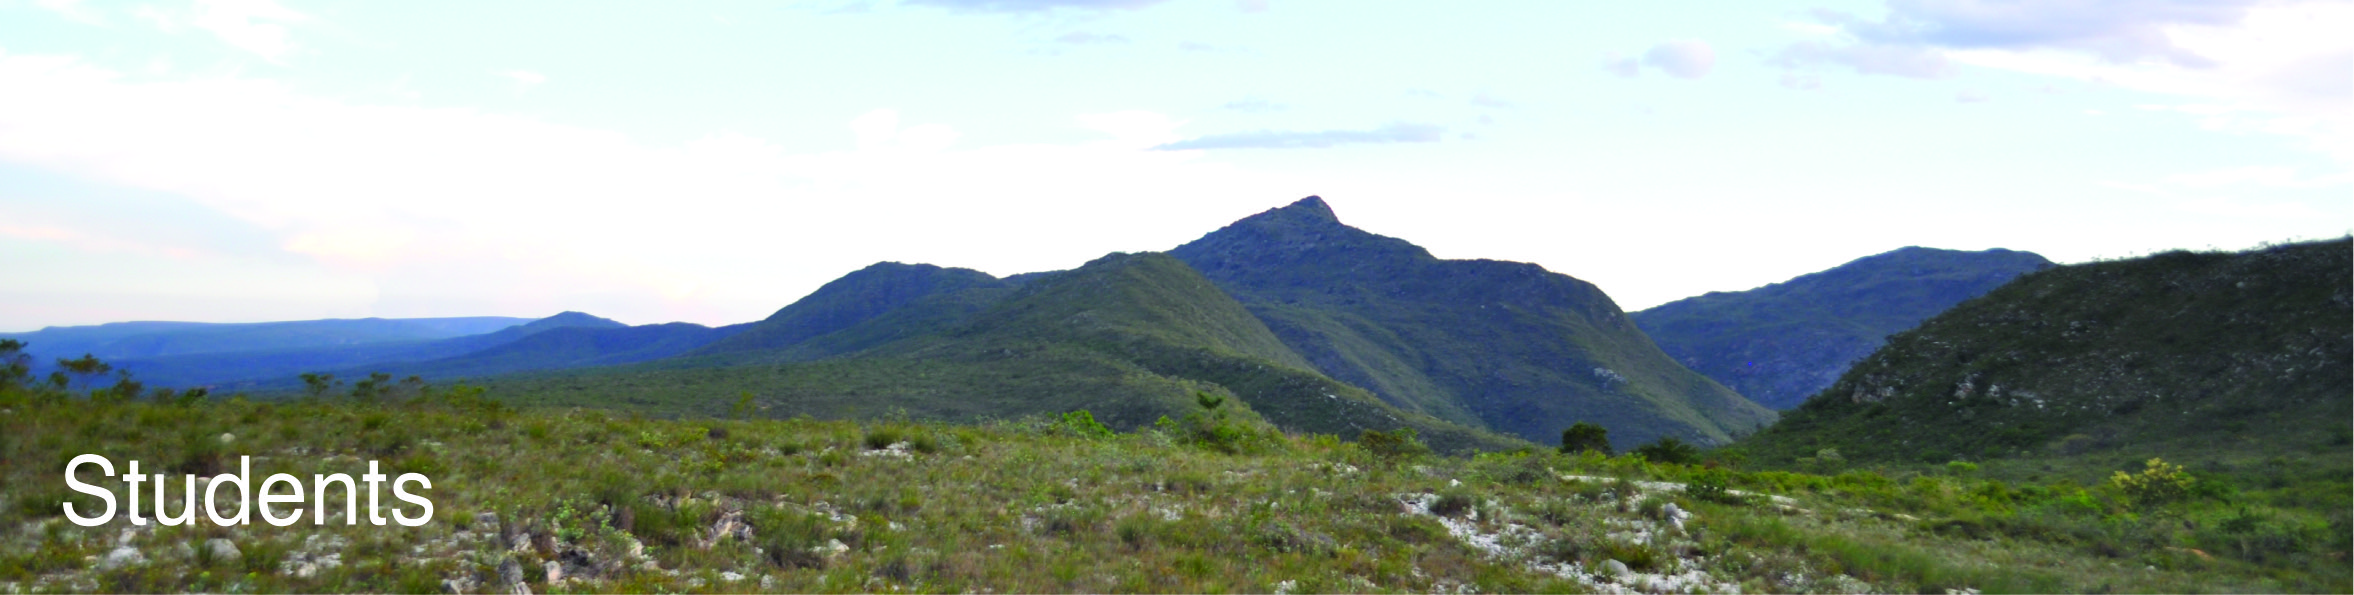
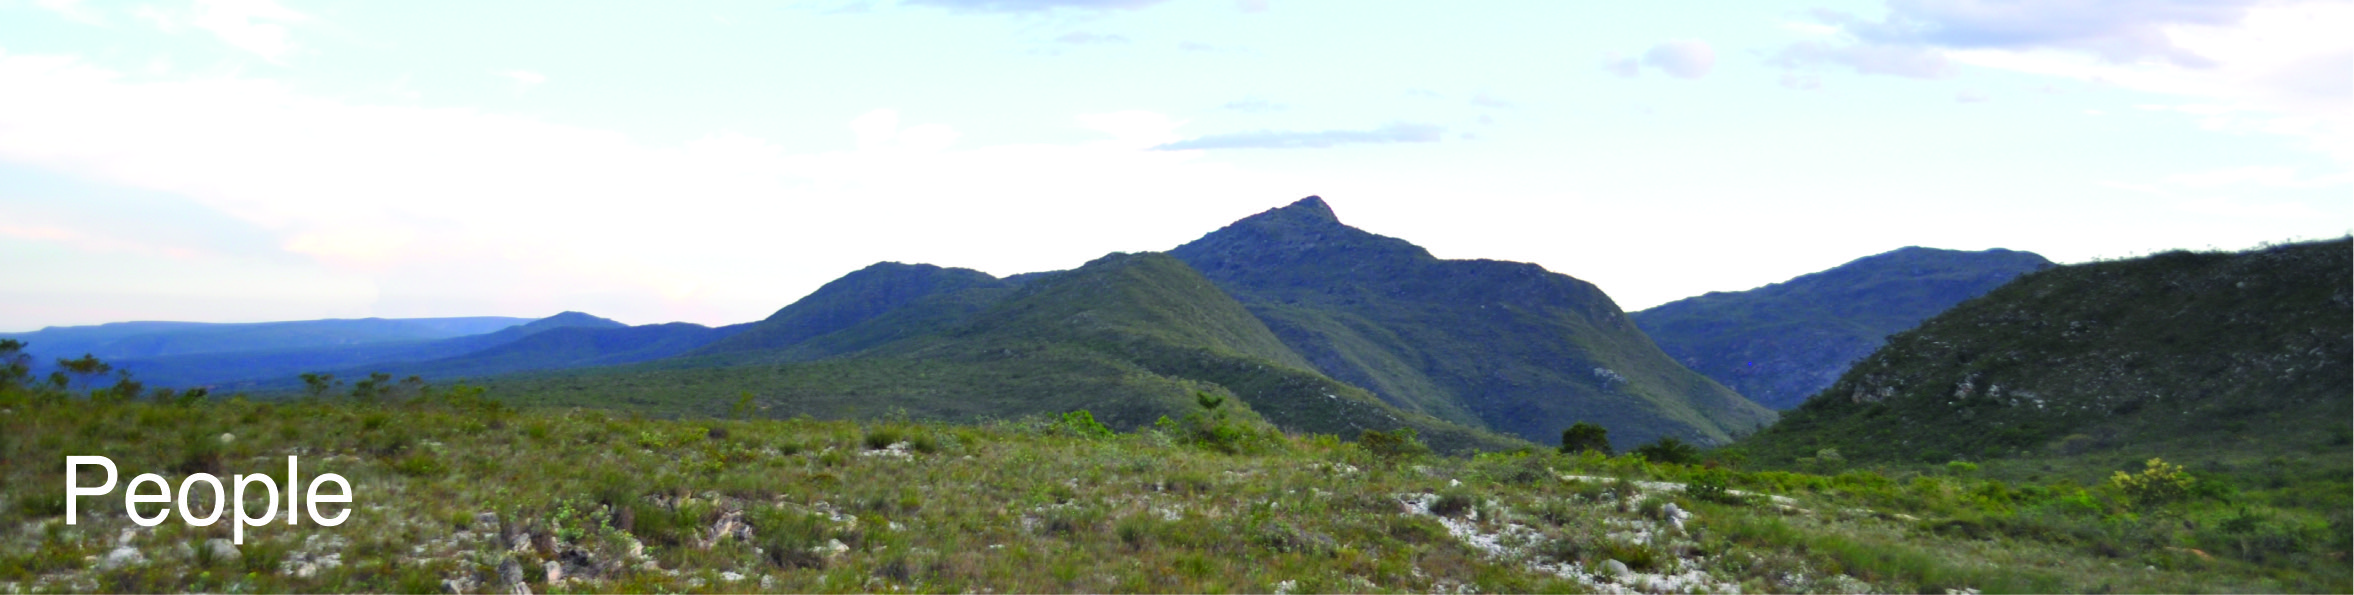
small changes

Changed region(s): [[0.031, 0.7563, 0.1861, 0.9076]]

diff --git a/index.html b/index.html
@@ -278,10 +278,10 @@ $(document).ready(function () {
   <a href="index.html">Research</a>
 </li>
 <li>
-  <a href="students.html">Students</a>
+  <a href="students.html">People</a>
 </li>
 <li>
-  <a href="publications.html">Publication</a>
+  <a href="publications.html">Publications</a>
 </li>
 <li>
   <a href="cv.html">CV</a>

diff --git a/contact.html b/contact.html
@@ -278,7 +278,7 @@ $(document).ready(function () {
   <a href="index.html">Research</a>
 </li>
 <li>
-  <a href="students.html">Students</a>
+  <a href="students.html">People</a>
 </li>
 <li>
   <a href="publications.html">Publication</a>

diff --git a/cv.html b/cv.html
@@ -278,7 +278,7 @@ $(document).ready(function () {
   <a href="index.html">Research</a>
 </li>
 <li>
-  <a href="students.html">Students</a>
+  <a href="students.html">People</a>
 </li>
 <li>
   <a href="publications.html">Publication</a>

diff --git a/index2.html b/index2.html
@@ -279,7 +279,7 @@ $(document).ready(function () {
   <a href="index.html">Research</a>
 </li>
 <li>
-  <a href="students.html">Students</a>
+  <a href="students.html">People</a>
 </li>
 <li>
   <a href="publications.html">Publication</a>

diff --git a/publications.html b/publications.html
@@ -278,7 +278,7 @@ $(document).ready(function () {
   <a href="index.html">Research</a>
 </li>
 <li>
-  <a href="students.html">Students</a>
+  <a href="students.html">People</a>
 </li>
 <li>
   <a href="publications.html">Publication</a>

diff --git a/students.html b/students.html
@@ -278,7 +278,7 @@ $(document).ready(function () {
   <a href="index.html">Research</a>
 </li>
 <li>
-  <a href="students.html">Students</a>
+  <a href="students.html">People</a>
 </li>
 <li>
   <a href="publications.html">Publication</a>
